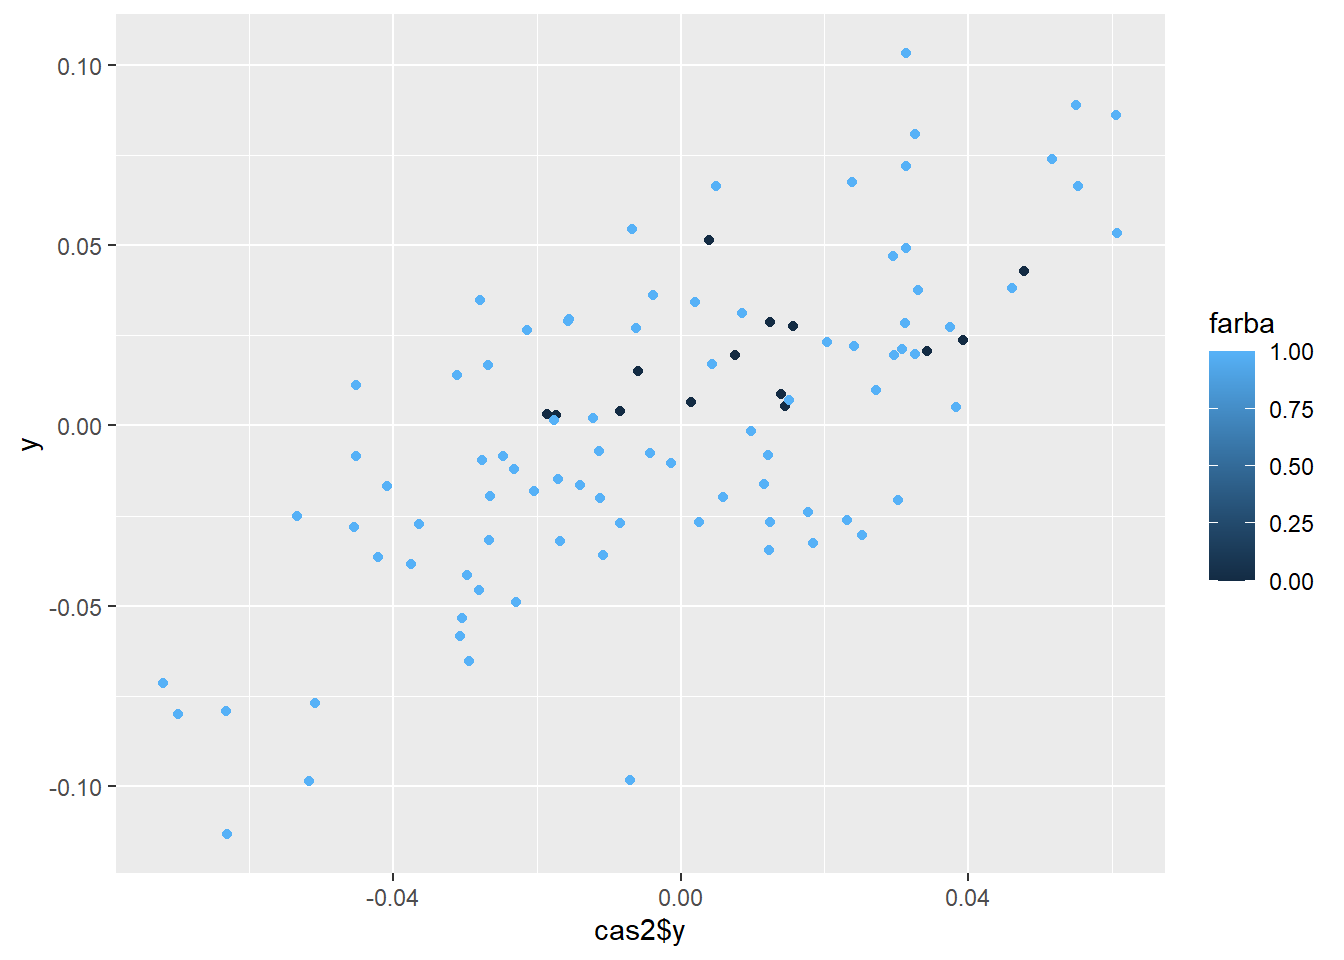
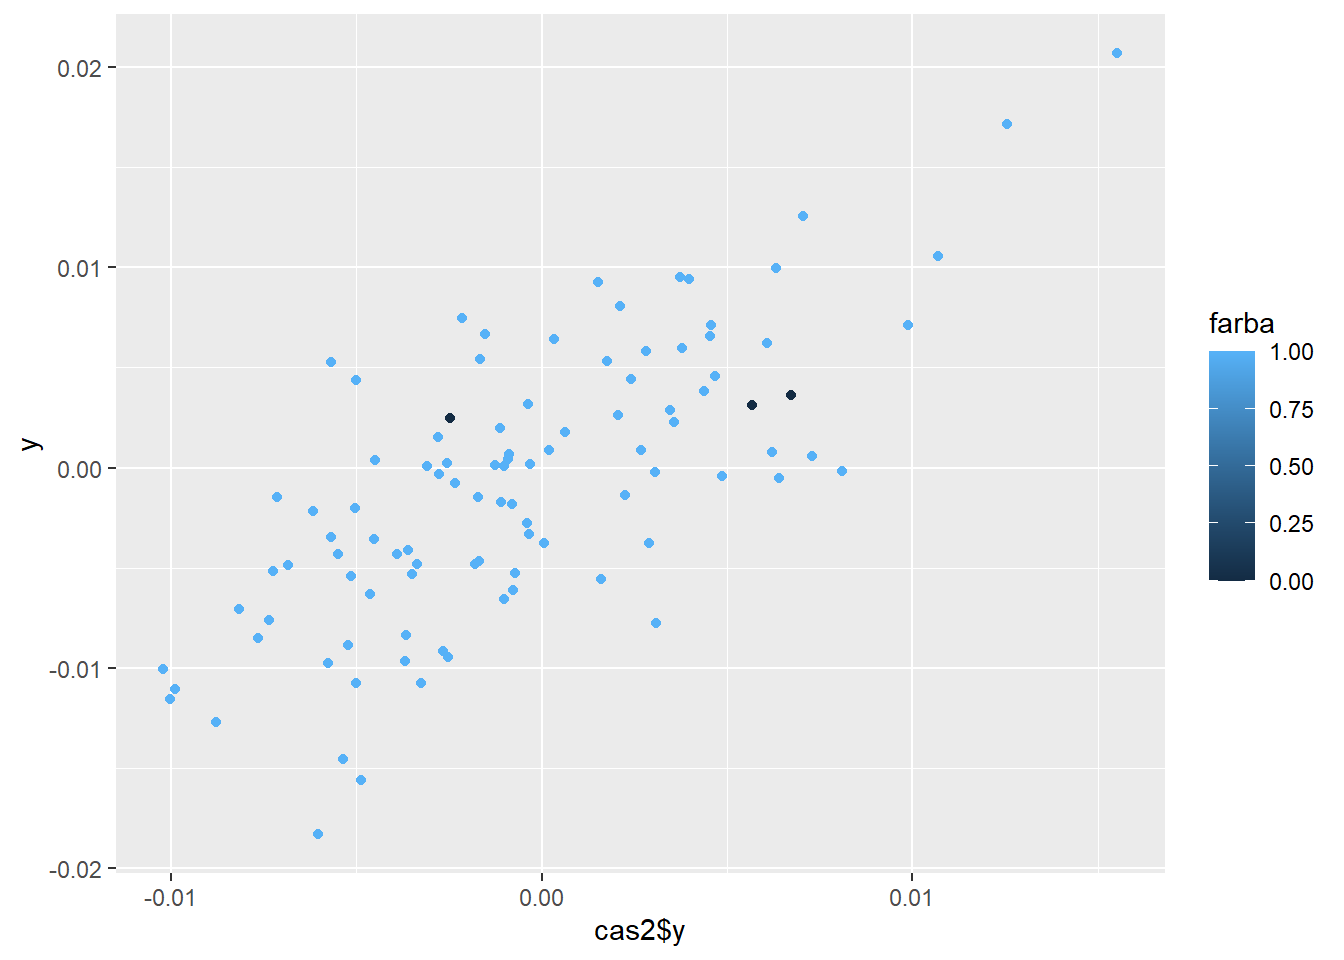
Add files via upload

diff --git a/wiener.cpp b/wiener.cpp
@@ -38,26 +38,31 @@ int main() {
             double v1 = ((double)(rand()) + 1.) / ((double)(RAND_MAX)+1.);
             double v2 = ((double)(rand()) + 1.) / ((double)(RAND_MAX)+1.);
             vect.push_back(pomoc2);
-            pomoc2 = pomoc2 + sqrt(T / (N)) * cos(2 * M_PI * v2) * sqrt(-2. * log(v1));
+            pomoc2 = pomoc2 + sqrt(T / (N)) * cos(2 * M_PI * v2) * sqrt(-2. * log(v1) * 0.02);
         }
         nah_traj Point(time, vect);
         TR1 = Point;
         Tr.push_back(TR1);
     }
-
+    double pr = 0;
     std::fstream vypis;
     vypis.open("celok.txt", std::ios::out);
     if (vypis.is_open()) {
         vypis << "x,y,typ,farba" << std::endl;
         for (int i = 0; i < poc_t; i++) {
+            if (Tr.at(i).get_y().at(2) > 0.002 && Tr.at(i).get_y().at(3) + Tr.at(i).get_y().at(2) < 0.002)
+                pr++;
+            
             for (int j = 0; j < Tr.at(i).get_x().size(); j++) {
                 vypis << Tr.at(i).get_x().at(j) << "," << Tr.at(i).get_y().at(j) << "," << i << ",";
-                if (Tr.at(i).get_y().at(2) > 0.002 && Tr.at(i).get_y().at(3) < 0.002)
+                if (Tr.at(i).get_y().at(2) > 0.002 && Tr.at(i).get_y().at(3) + Tr.at(i).get_y().at(2) < 0.002)
                     vypis << 0 << std::endl;
                 else
                     vypis << 1 << std::endl;
             }
         }
         vypis.close();
+
+        printf("%lf", pr / double(poc_t));
     }
 }
